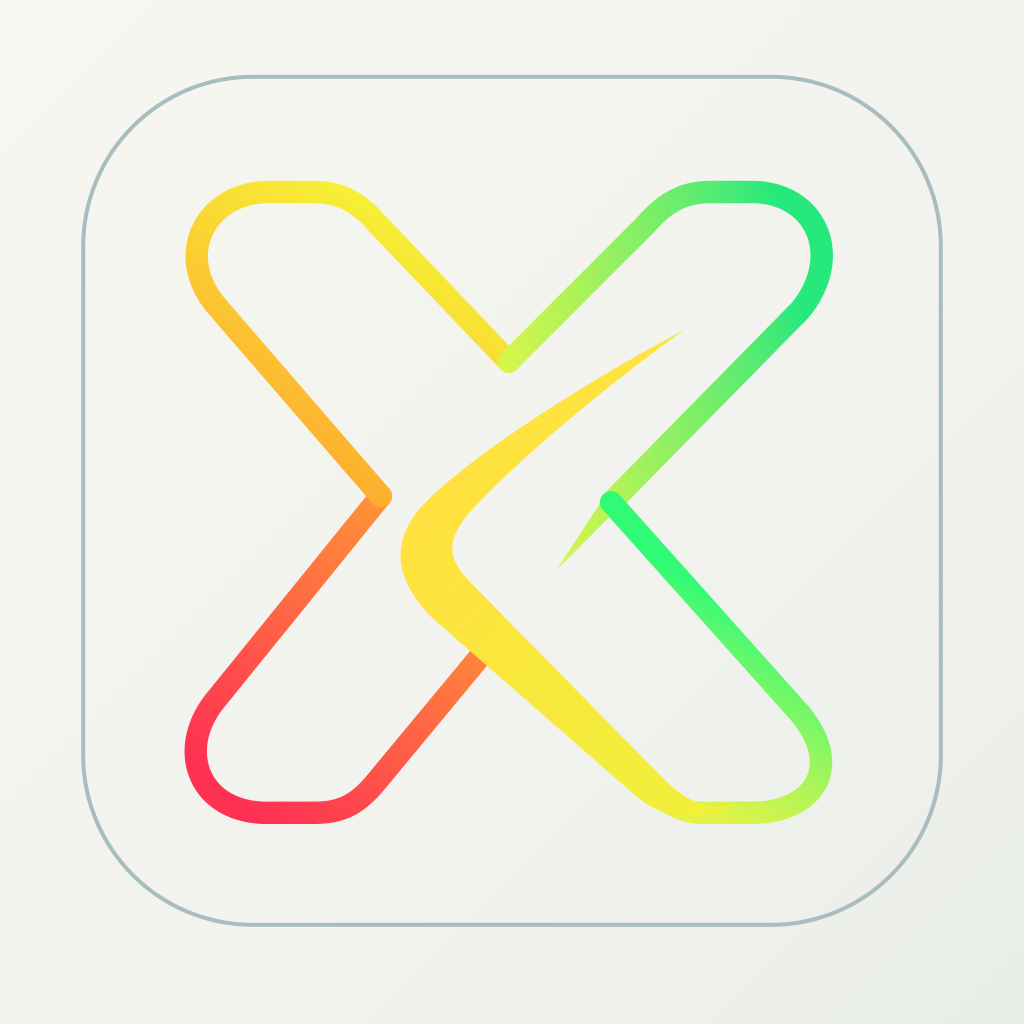
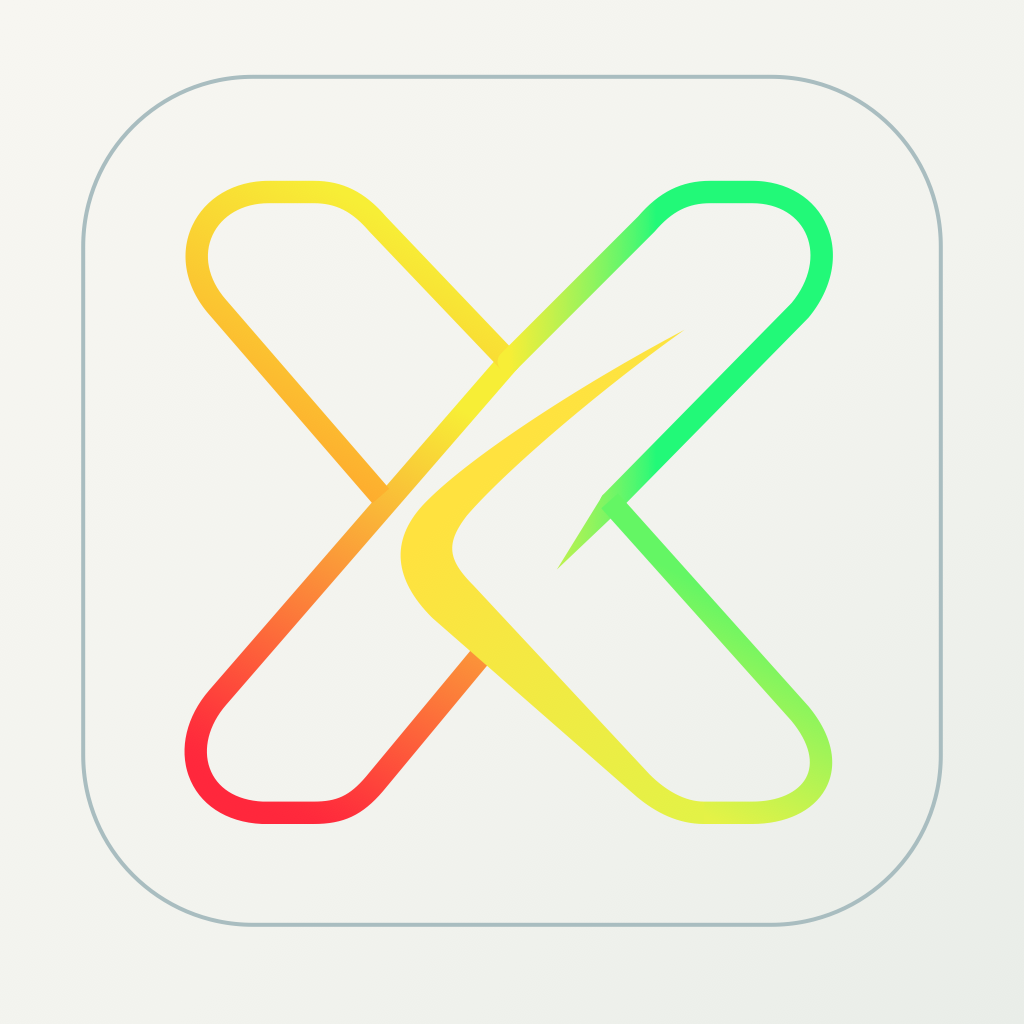
fix(brand): restore continuous X crossings and sweep joins

diff --git a/SparkyFitnessMobile/src/components/brand/ProgressTrackX.tsx b/SparkyFitnessMobile/src/components/brand/ProgressTrackX.tsx
@@ -34,7 +34,7 @@ export default function ProgressTrackX({
   showValue = true,
 }: ProgressTrackXProps) {
   const target = normalizeProgress(progress);
-  const animated = React.useRef(new Animated.Value(target ?? 0)).current;
+  const [animated] = React.useState(() => new Animated.Value(target ?? 0));
   const currentValue = React.useRef(target ?? 0);
   const [rendered, setRendered] = React.useState<number | null>(target);
   const [reduceMotion, setReduceMotion] = React.useState(false);
@@ -150,7 +150,11 @@ export default function ProgressTrackX({
                   fill="none"
                   stroke={baseline}
                   strokeWidth={segment.strokeWidth}
-                  strokeLinecap="round"
+                  strokeLinecap={
+                    'linecap' in segment && segment.linecap === 'butt'
+                      ? 'butt'
+                      : 'round'
+                  }
                   strokeLinejoin="round"
                 />
                 {'taperPath' in segment && (
@@ -180,7 +184,11 @@ export default function ProgressTrackX({
                     fill="none"
                     stroke={fill}
                     strokeWidth={segment.strokeWidth}
-                    strokeLinecap="round"
+                    strokeLinecap={
+                      'linecap' in segment && segment.linecap === 'butt'
+                        ? 'butt'
+                        : 'round'
+                    }
                     strokeLinejoin="round"
                   />
                   {'taperPath' in segment && (

diff --git a/SparkyFitnessFrontend/src/components/brand/ProgressTrackX.tsx b/SparkyFitnessFrontend/src/components/brand/ProgressTrackX.tsx
@@ -130,7 +130,11 @@ export default function ProgressTrackX({
                   fill="none"
                   stroke={baseline}
                   strokeWidth={segment.strokeWidth}
-                  strokeLinecap="round"
+                  strokeLinecap={
+                    'linecap' in segment && segment.linecap === 'butt'
+                      ? 'butt'
+                      : 'round'
+                  }
                   strokeLinejoin="round"
                 />
                 {'taperPath' in segment && (
@@ -160,7 +164,11 @@ export default function ProgressTrackX({
                     fill="none"
                     stroke={fill}
                     strokeWidth={segment.strokeWidth}
-                    strokeLinecap="round"
+                    strokeLinecap={
+                      'linecap' in segment && segment.linecap === 'butt'
+                        ? 'butt'
+                        : 'round'
+                    }
                     strokeLinejoin="round"
                   />
                   {'taperPath' in segment && (

diff --git a/x-on-track-design/implementation.md b/x-on-track-design/implementation.md
@@ -15,3 +15,9 @@ The mobile dashboard keeps its existing date, food, scan, hydration, workout, an
 Synthetic simulator screenshots are in `review/`; names indicate width/theme/scenario. They are not personal account data. The 390 and 430 captures were compared with `references/progress_x_mockup_dashboard.jpg`: the centered energy summary, quick actions, accent colors, metric hierarchy, and dark surfaces are present. Deliberate departures include restrained glow, a date-first header consistent with the prior approved header direction, the existing scrollable stacked hydration and exercise cards, and the existing bottom navigation destinations. The mockup's calorie arithmetic, suggested goal checks, motivational copy, and promotions were not copied.
 
 Web screenshots requiring authenticated data are unverified because no disposable preview account is available. A physical-device installation, Watch/widget rendering, and a native release build are also unverified for this branch. The simulator captures verify layout rendering, not persistence or backend integrations. The new light mark asset was visually inspected, but the post-change light dashboard capture remains unverified because the preview harness rendered the dark theme for that scenario.
+
+### Center-crossing correction
+
+The subsequent logo review exposed a missing diagonal between the left junction and upper center, visible round-cap seams, and an overlapping crescent where the sweep met the lower-right loop. The canonical paths now restore that diagonal and join the sweep to the loop at matching boundaries. Explicit butt caps at the joining segments are consumed by both progress adapters and the SVG generator. All static exports were regenerated. The latest comparisons are `review/progression-x-full-corrected.png` and `review/progression-x-empty-corrected.png` (reference left, SVG right). The earlier comparison is retained. These correct structural defects; raster bloom and surface highlights still differ.
+
+Validation for this correction: nine focused web/mobile brand tests passed, both app TypeScript checks passed, SVG XML validation and whitespace checks passed. The dynamic component changes were not rechecked on a physical device.
